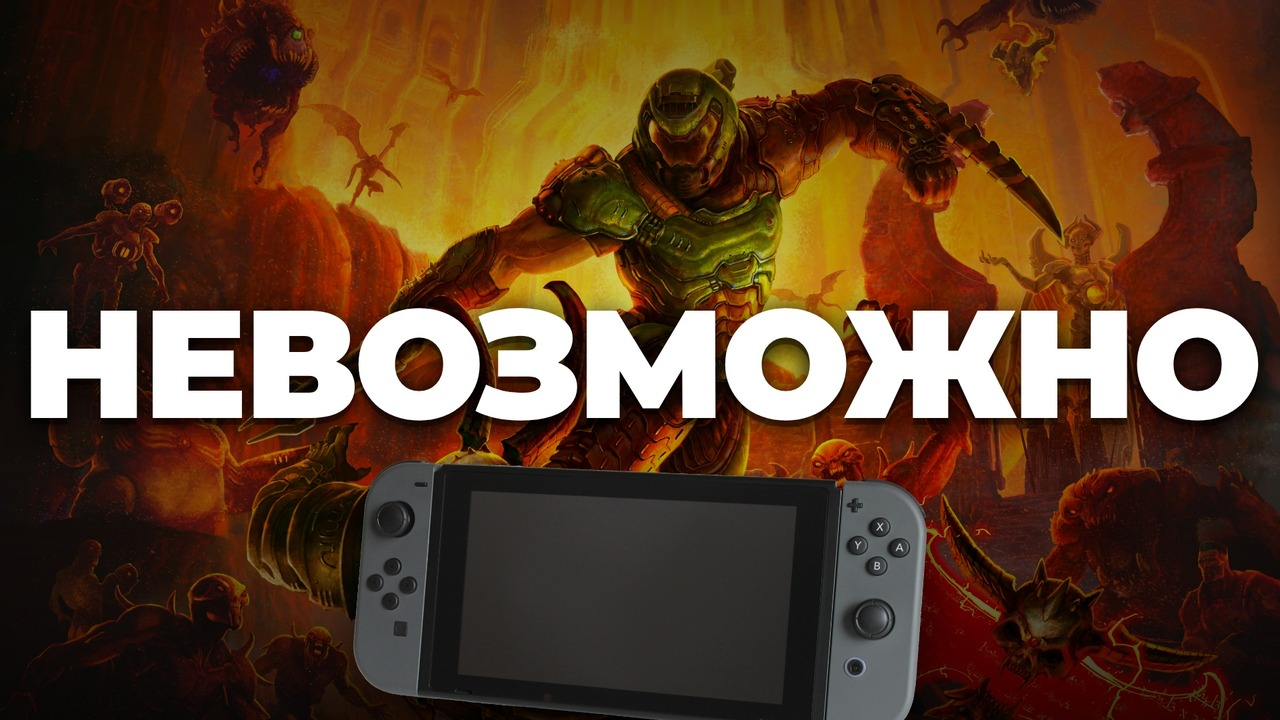
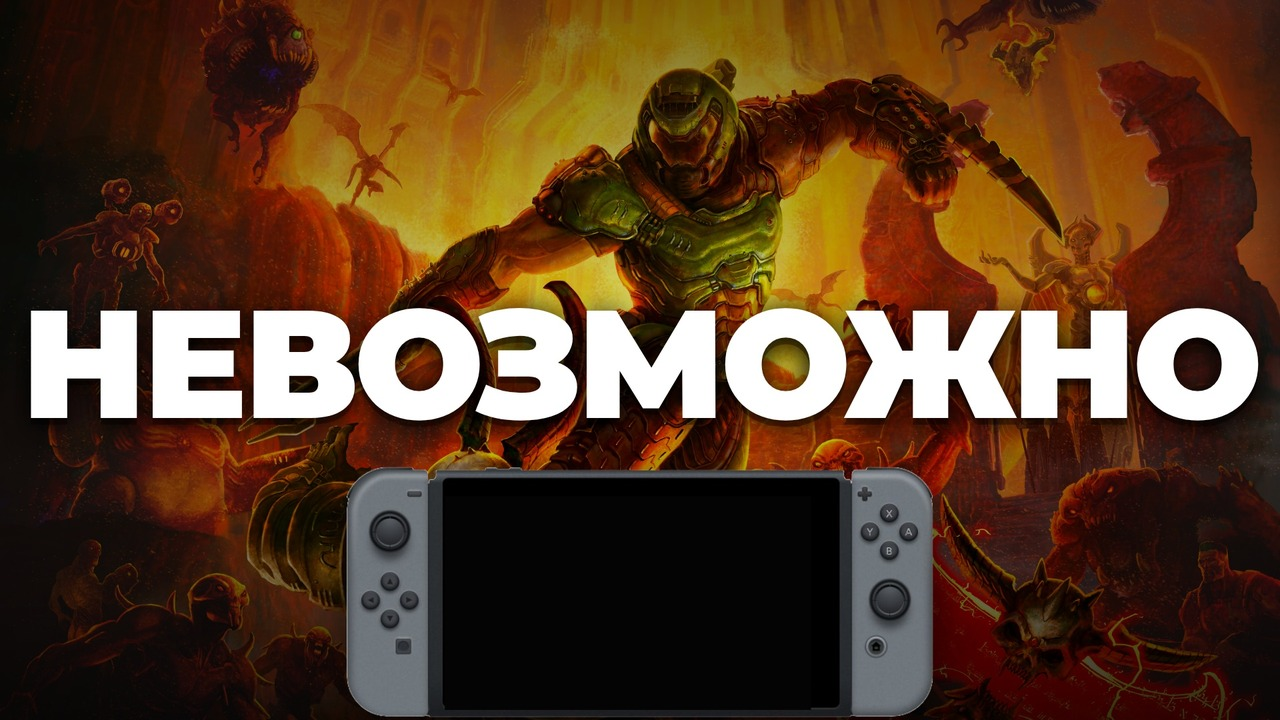
Doom: превью с серой Switch и чёрным экраном
Claude-Session: https://claude.ai/code/session_01RHFrx85Hg5RpkQEmnVQQfw

Changed region(s): [[0.25, 0.6417, 0.75, 1.0]]

diff --git a/doom/thumb/thumb.html b/doom/thumb/thumb.html
@@ -10,5 +10,5 @@ html,body{width:1920px;height:1080px;overflow:hidden;background:#111;font-family
 </style></head><body>
 <div class="bg"></div><div class="shade"></div>
 <div class="t" id="t" style="top:430px;font-size:230px">НЕВОЗМОЖНО</div>
-<img class="ps" id="ps" src="/crysis/cut/switch.png" style="top:690px;width:860px">
+<img class="ps" id="ps" src="/doom/cut/switch_grey_black.png" style="top:700px;width:880px">
 <script>const q=new URLSearchParams(location.search);if(q.get("t"))document.getElementById("t").textContent=q.get("t");if(q.get("ty"))document.getElementById("t").style.top=q.get("ty")+"px";if(q.get("bgy"))document.querySelector(".bg").style.backgroundPosition="center "+q.get("bgy");</script></body></html>
